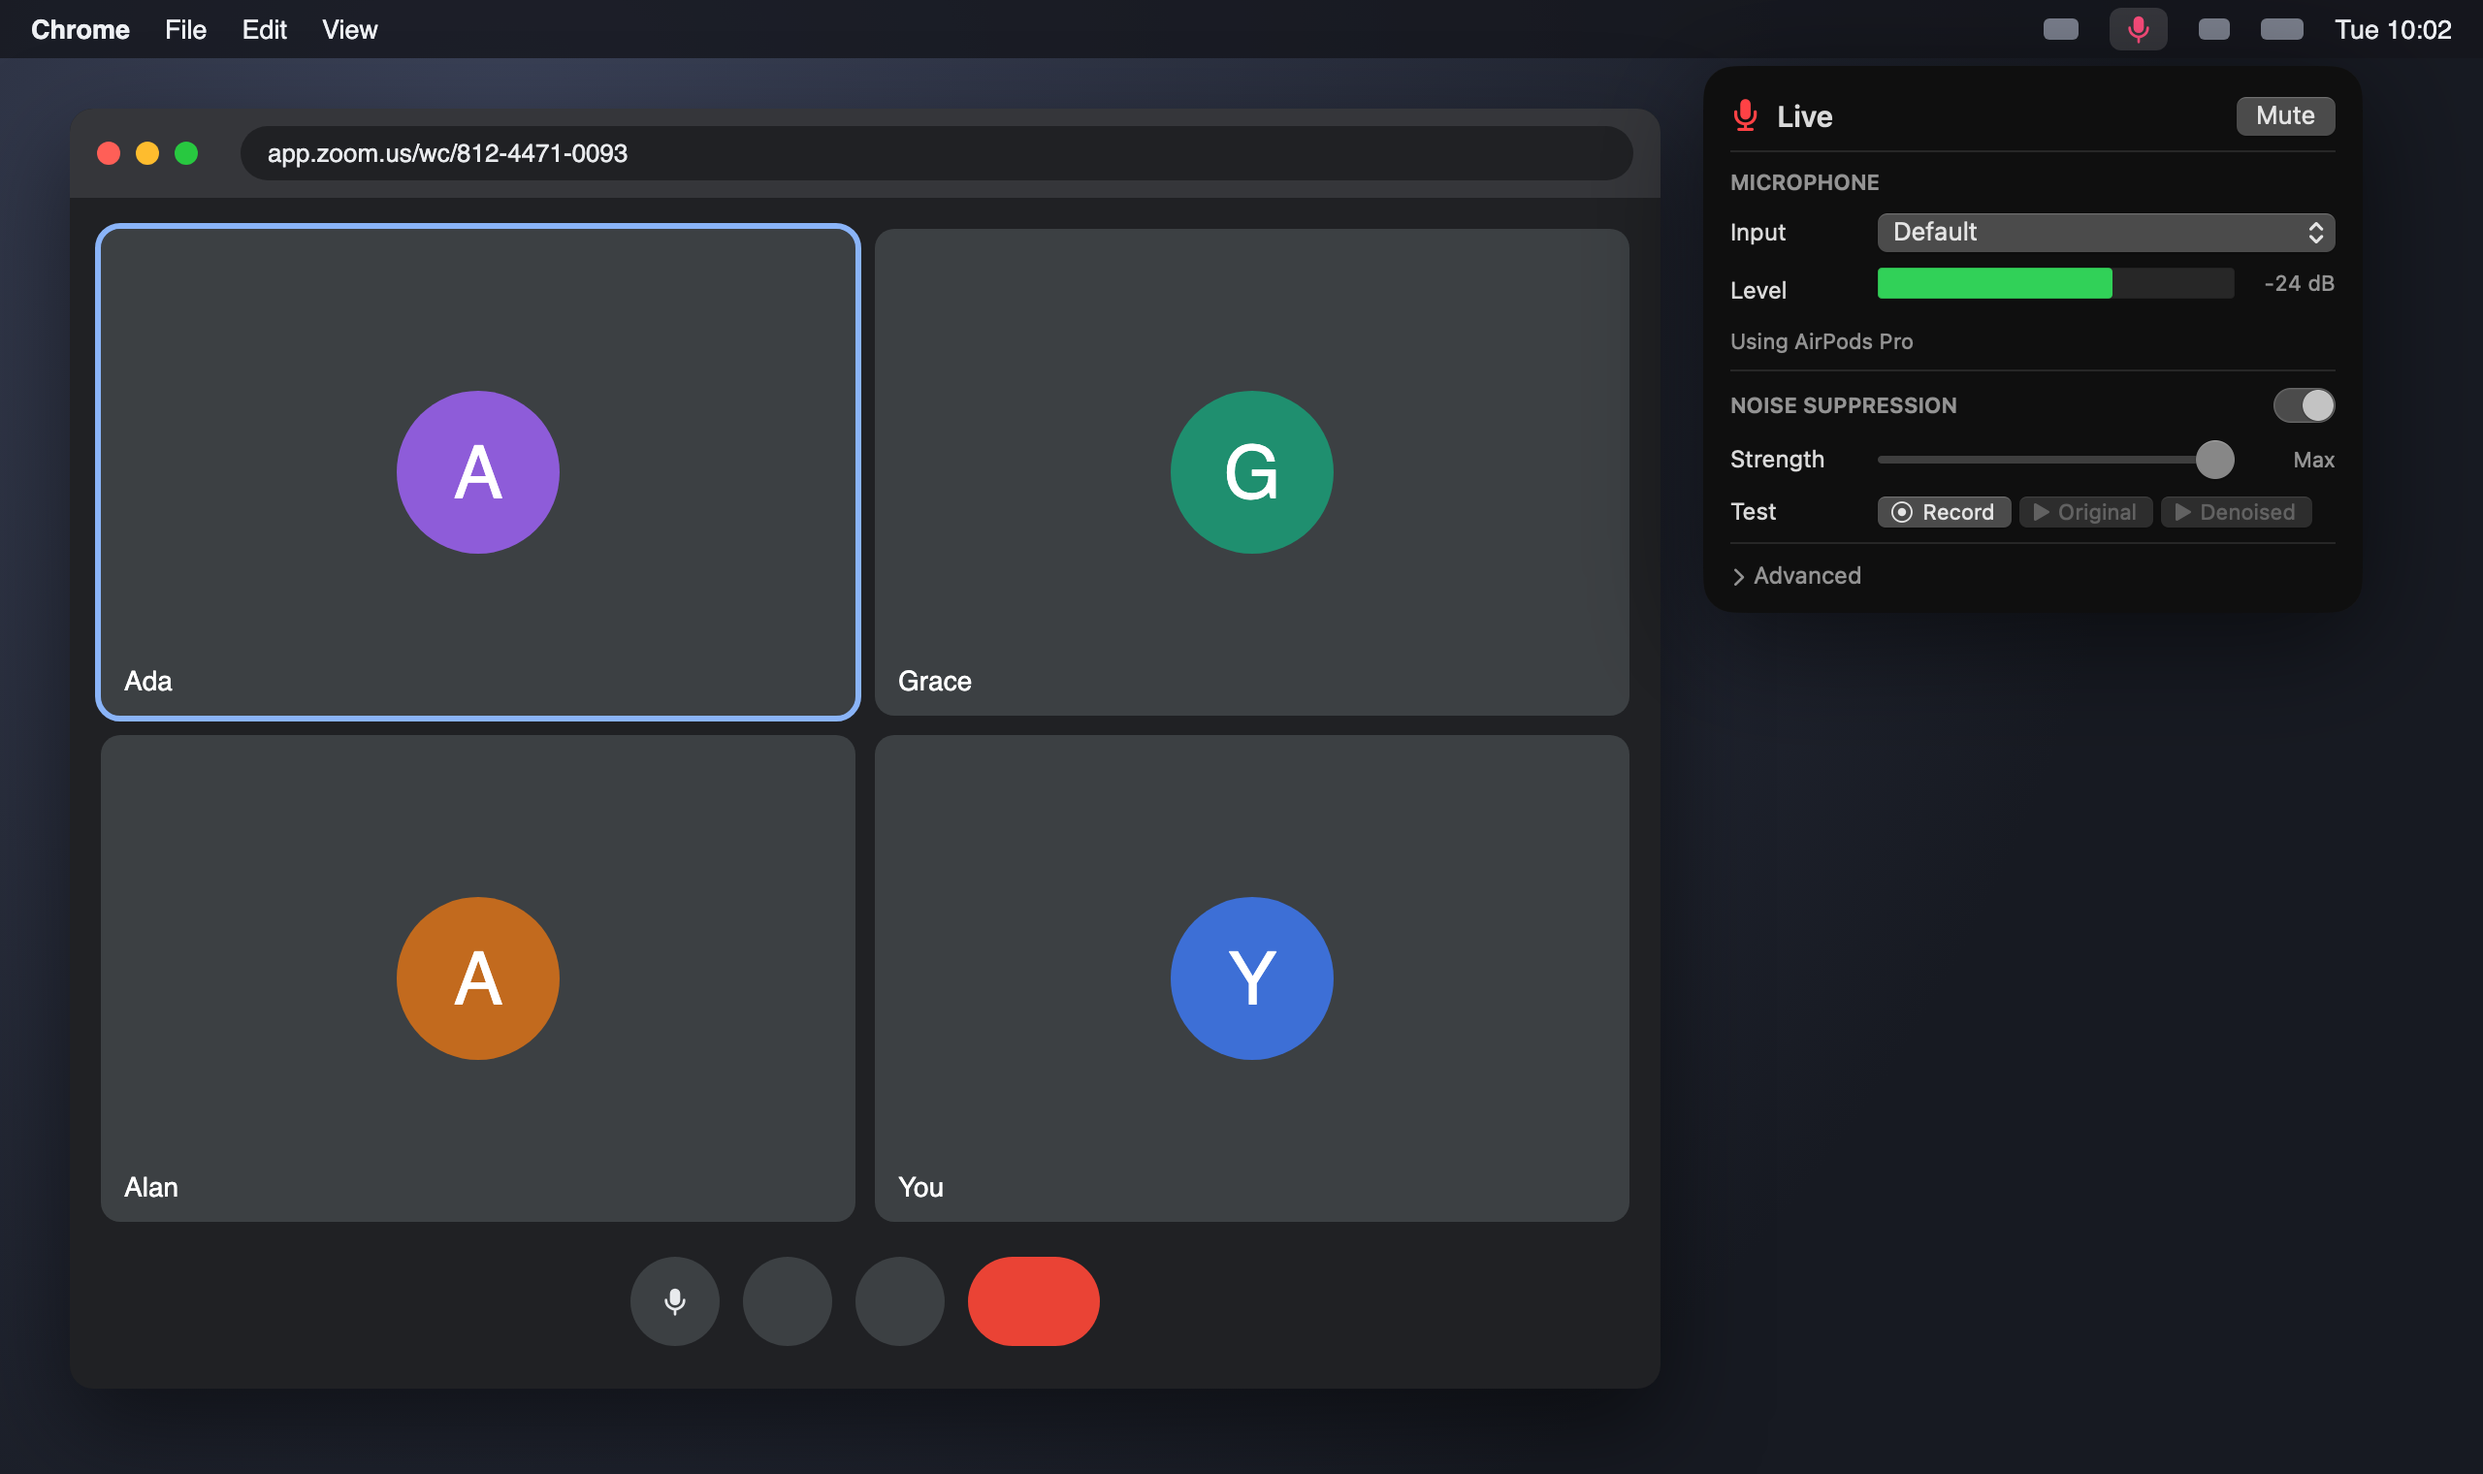
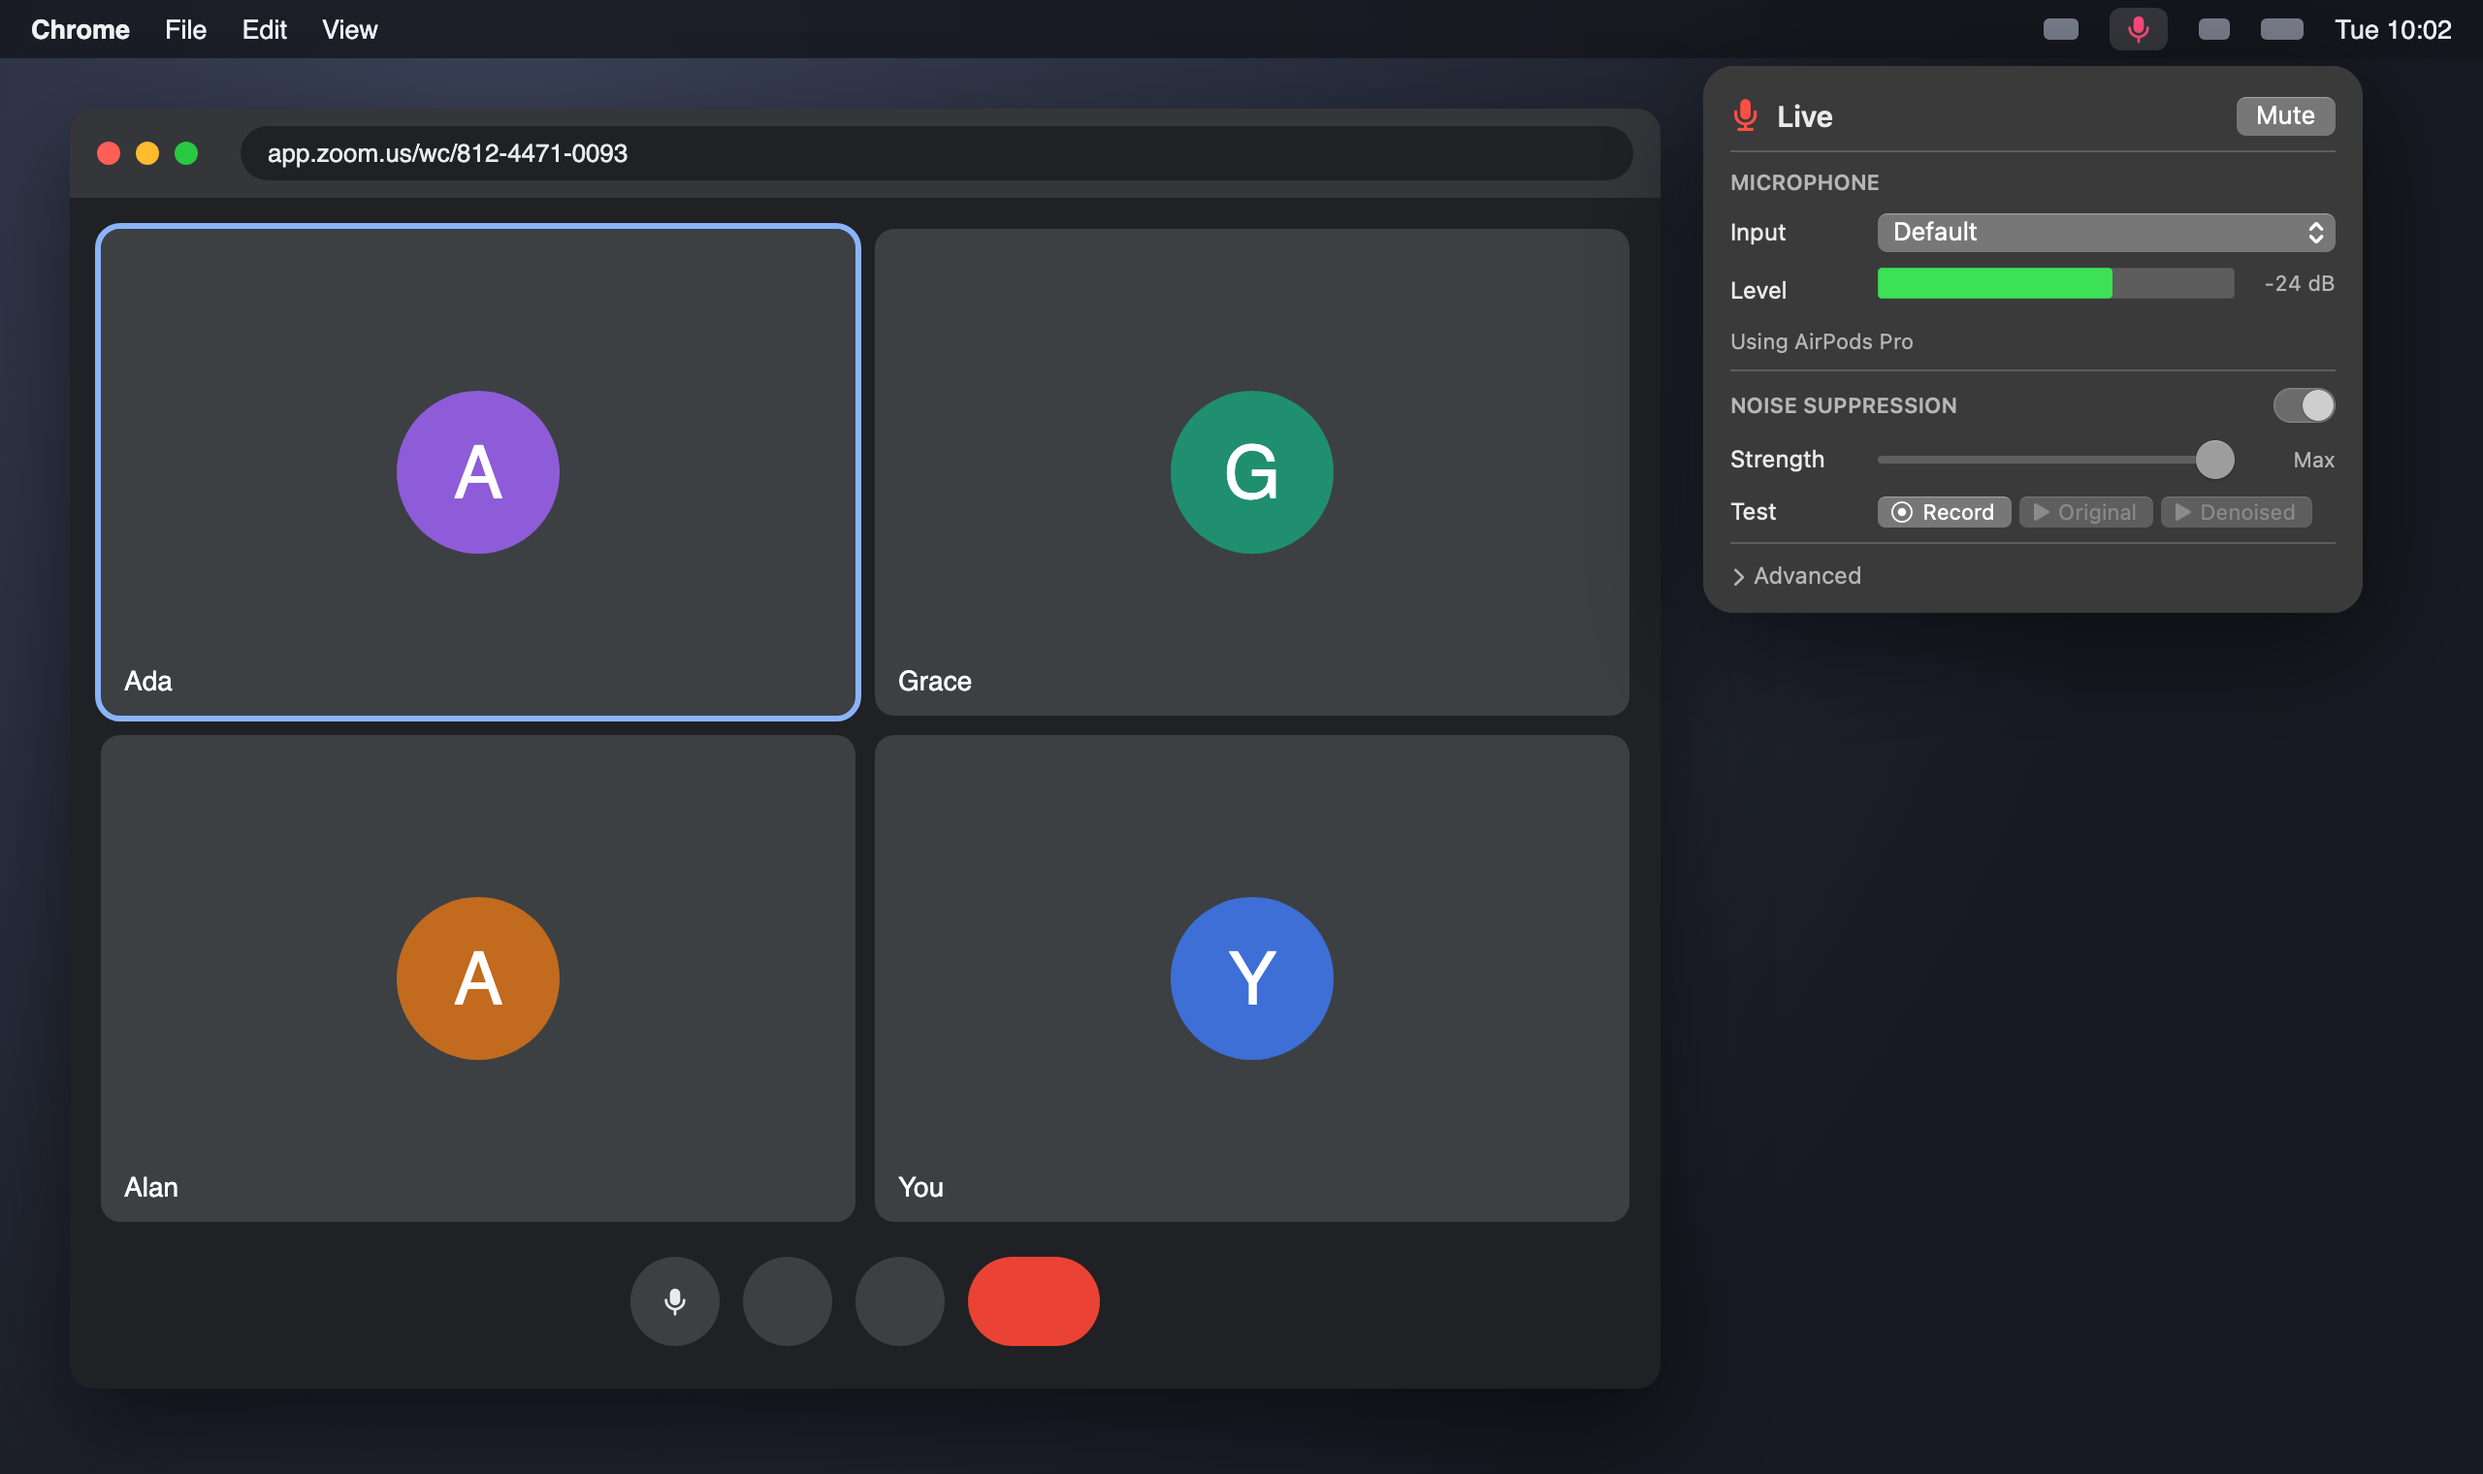
docs: capabilities diagram; round every diagram's corners
A hub-and-spoke diagram of everything Virtual Headset does, with each
capability on an ellipse around it, marked by platform where it's only
one; the README shows it under What it does. Every diagram's background
now has rounded corners. Screenshots refreshed for the panel's new
backdrop.

Changed region(s): [[0.6875, 0.0309, 0.9688, 0.4329]]

diff --git a/README.md b/README.md
@@ -53,6 +53,15 @@ In your call app's settings, the headset shows up as two devices:
 **Virtual_Headset**, its mute button. Zoom pairs them because their names match,
 and from then on treats them as one headset.
 
+## What it does
+
+<!-- diagram:capabilities -->
+<picture>
+  <source media="(prefers-color-scheme: dark)" srcset="docs/diagrams/capabilities-dark.svg">
+  <img src="docs/diagrams/capabilities.svg" alt="One app, everything around your mic. Around Virtual Headset, a headset made in software: Zoom and Meet (mute in sync, web or desktop); Any mic (built-in, USB or Bluetooth); Stereo while muted (Bluetooth headsets (macOS)); Nix modules (for NixOS and nix-darwin); Scriptable (CLI, D-Bus or state files); Firefox (via an extension (Linux)); Noise removed (on your own Mac (macOS)); Mute from anywhere (a key, your bar, a panel)">
+</picture>
+<!-- /diagram:capabilities -->
+
 ## Quick start
 
 **Linux, with NixOS:**
